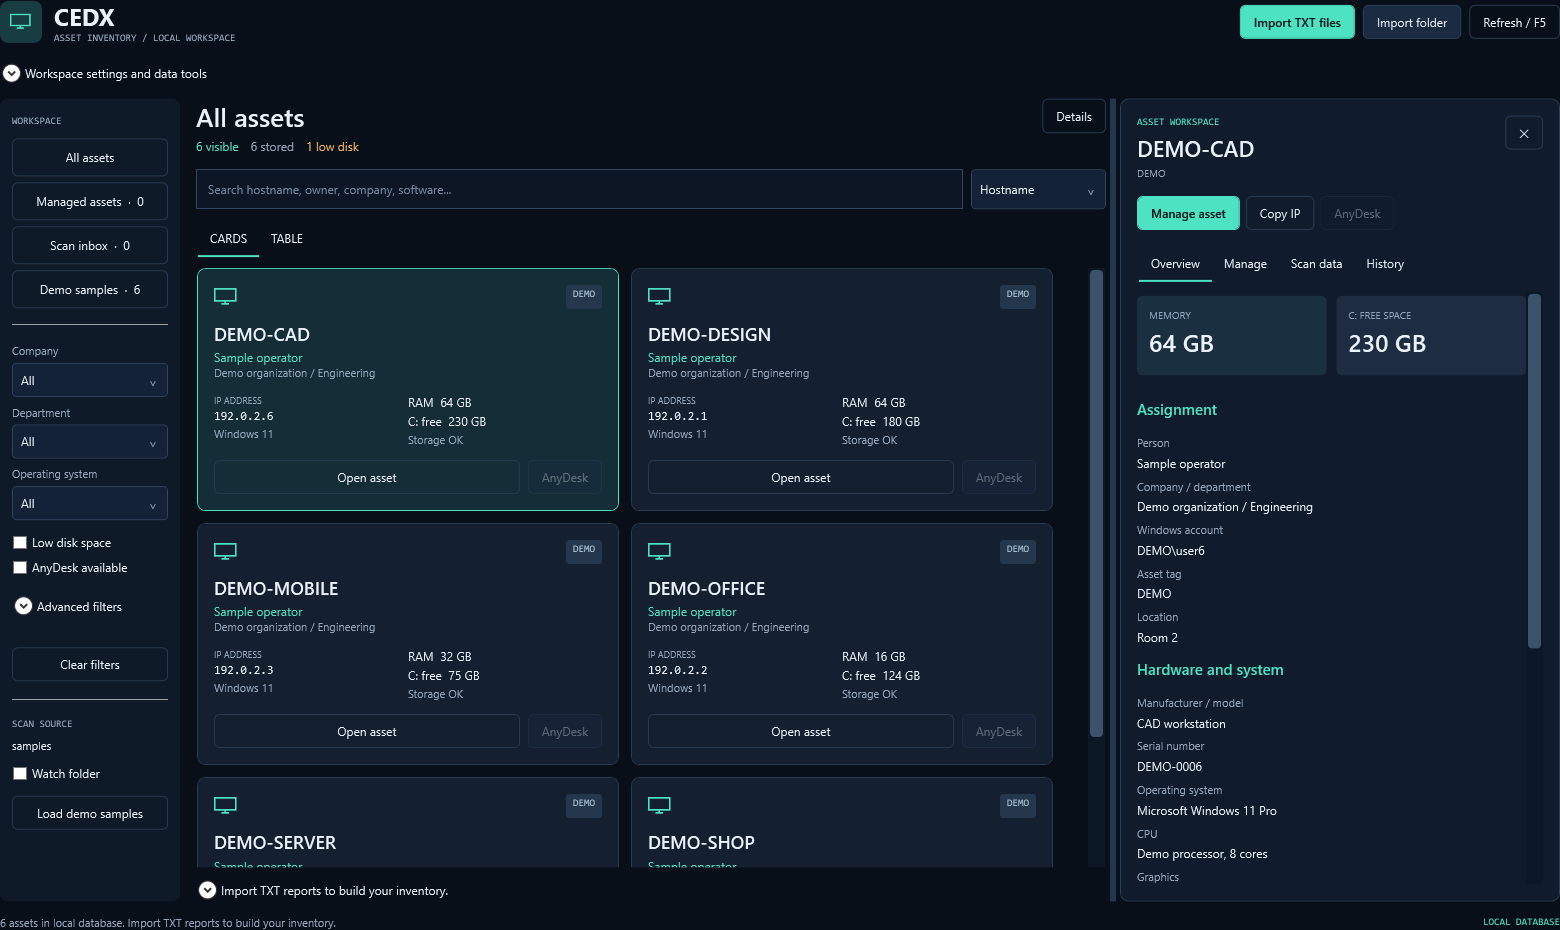
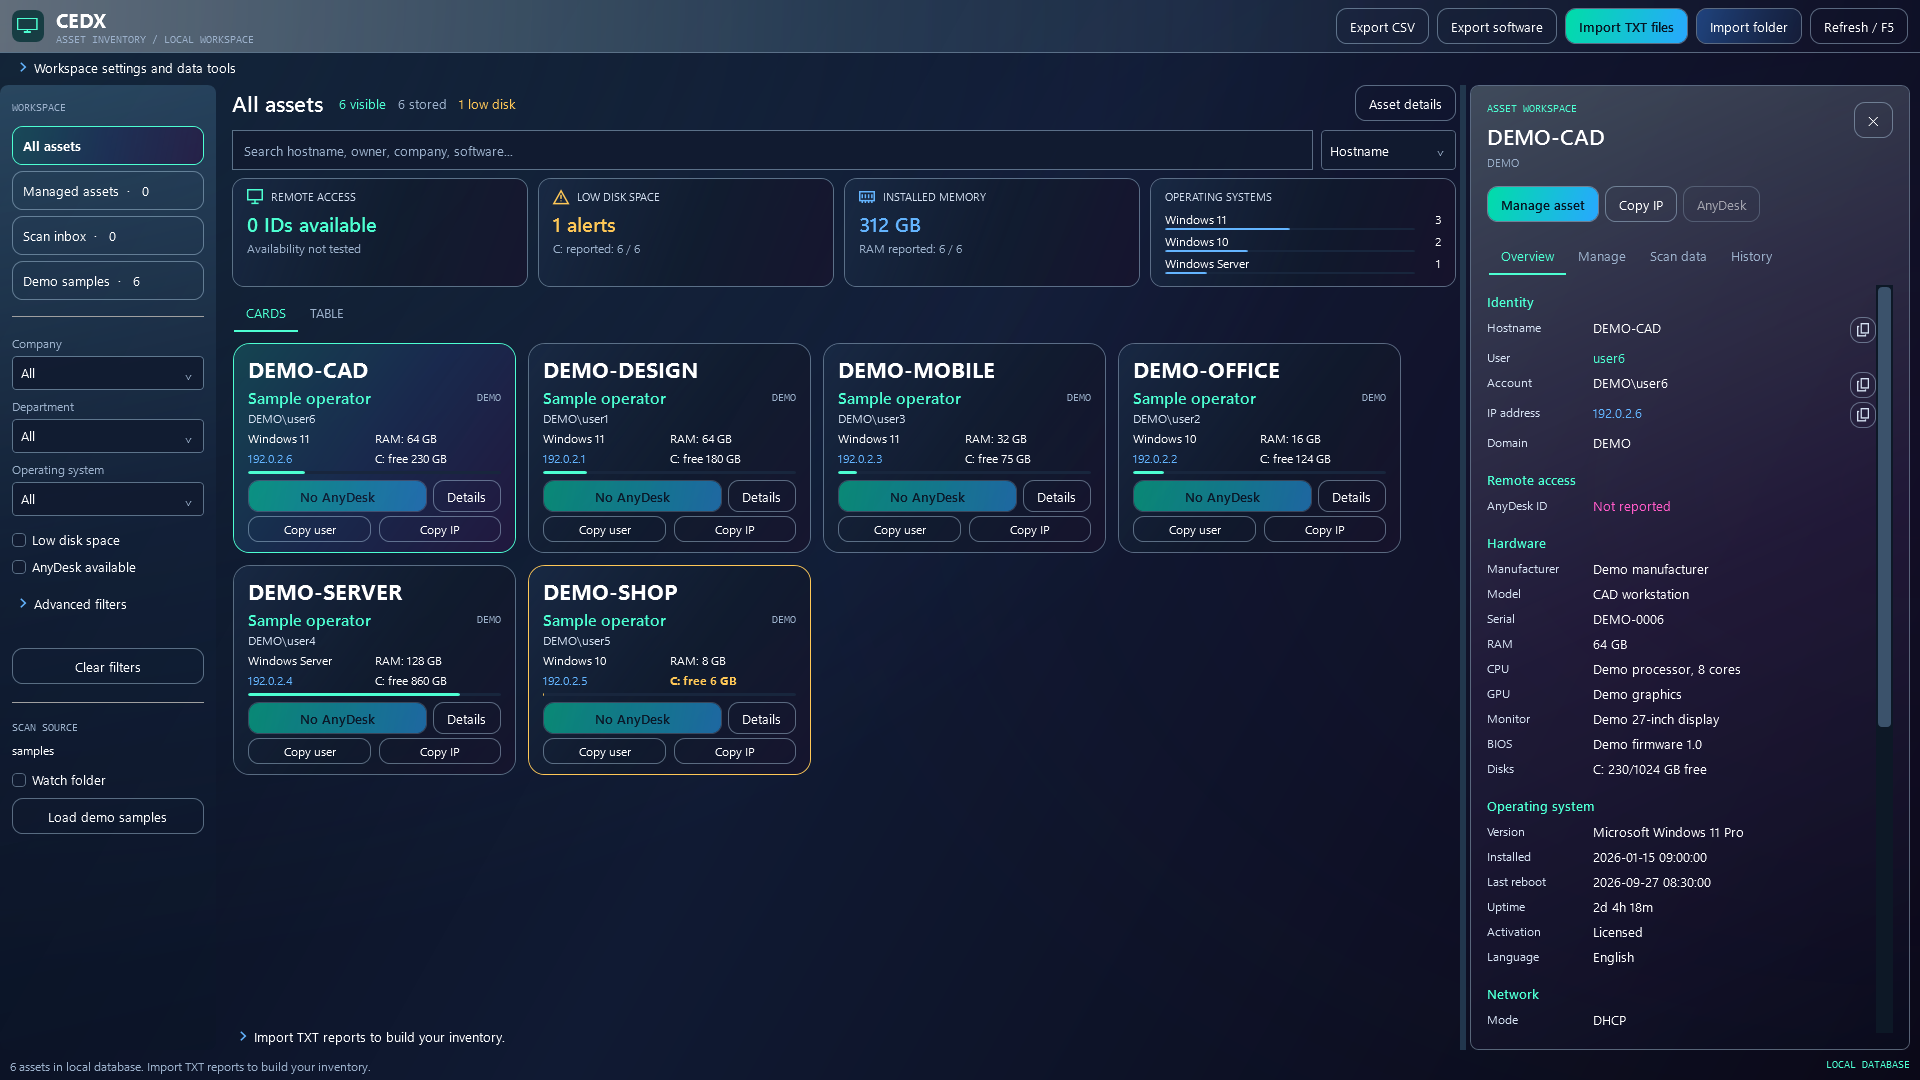
Document verified scan recovery and refreshed WPF screenshots [skip ci]

diff --git a/README.md b/README.md
@@ -1,19 +1,31 @@
 # CEDX · Windows asset workspace
 
-A native WPF inventory application for turning collector TXT reports into a maintained asset register. This branch is `cedxadnacedexe`, based on `cedxadvanced`.
+A native WPF inventory application for turning collector TXT reports into a maintained asset register. This branch is `cedexadvancesui`, based on the functional `cedxadnacedexe` workspace.
 
 ## Run in one click
 
-1. Download **this entire branch** and extract it, or clone and check out `cedxadnacedexe`.
+1. Download **this entire branch** and extract it, or clone and check out `cedexadvancesui`.
 2. Install the **.NET 8 SDK for Windows x64** if it is not already installed.
 3. Double-click **Build-and-Run-CEDX.bat**. The first build needs internet access to restore .NET and SQLite packages.
 4. Choose **Import folder** for your existing TXT directory, or **Import TXT files** for individual reports. Dragging TXT files or folders into the window also works.
 
 The BAT compiles a self-contained Windows x64 application into `artifacts\cedxadnacedexe`. Keep that entire folder together. After the first build, launch `Cedx.App.exe` directly; the destination PC does not need a separate .NET runtime. Close the application before rebuilding. Build diagnostics are saved in `artifacts\build.log`; `--build-only` skips launch.
 
+## UI improvements in this branch
+
+- No unused white client border. The Window theme is explicitly applied; content fills the client area in normal and maximized mode.
+- The original CEDX midnight-blue palette is restored: blue/violet glass panels, white hostnames, teal users, blue IPs, magenta remote IDs and amber storage warnings.
+- Hostnames are 22 DIP and owners 16 DIP. Dark inputs, checkboxes, expanders and visible keyboard focus keep controls readable.
+- The Overview inspector uses compact label/value rows for identity, hardware, OS, network and software. Blank assignment rows are omitted; populated assignments remain available and editable in Manage.
+- Cards prioritize AnyDesk and include a Details action, double-click/Enter navigation, Copy user / Copy IP, show actual disk free-space meters when capacity is known, and highlight low-space warnings using the configured threshold.
+- Summary panels and the OS bar chart follow the active filters. An AnyDesk ID means a remote-access identifier was collected; it does not imply the computer is online. Missing measurements are counted explicitly.
+- Accent, card size and inspector width remain customizable in Workspace settings and data tools. The metric strip stays in one row at Full-HD 100% and 125% scaling, and reflows to two columns in narrower panels.
+
+Progress is checkpointed in [docs/UI-PROGRESS.md](docs/UI-PROGRESS.md). Each target has its own branch commit and Windows validation.
+
 ## Actual desktop UI
 
-These are WPF renders from the Windows validation workflow, using only synthetic sample data.
+These are WPF renders from the Windows validation workflow, using only synthetic sample data. Wide renders use 1920 × 1080 with the production layout and margins. A separate render exercises the equivalent Full-HD layout at 125% scaling; actual multi-monitor DPI transitions still need testing on the target PC.
 
 ![Inventory cards and asset overview](docs/screenshots/01-inventory.png)
 
@@ -22,6 +34,8 @@ These are WPF renders from the Windows validation workflow, using only synthetic
 ![Structured collector data](docs/screenshots/03-scan-details.png)
 
 ![Compact asset workspace](docs/screenshots/04-compact.png)
+
+![Full-HD layout at 125 percent](docs/screenshots/05-scale-125.png)
 
 ## Import, manage, update
 
@@ -33,6 +47,12 @@ These are WPF renders from the Windows validation workflow, using only synthetic
 6. **Export.** Export the filtered inventory as CSV or JSON, installed software as CSV, selected technical fields as CSV, or a stored scan as TXT. Clipboard actions and Ctrl+C on grid cells are available.
 
 Draft assignment edits survive selection changes within the session. They are committed only with Save; closing with unsaved edits prompts before discarding them. Ctrl+S saves the selected assignment, Ctrl+F focuses search, F5 refreshes.
+
+## Existing scans with missing hardware or disk data
+
+Some legacy reports contain four NUL characters in the monitor's EDID name. Native text handling could stop at the first NUL during writing or reading, hiding the following manufacturer, model, disk, network and software fields. Some older database rows therefore contain only a prefix of the report.
+
+This branch stores and reads current and historical reports as explicit UTF-8 bytes. Rebuild the app, select the original TXT folder and press **F5**. Complete stored reports load immediately; truncated rows are repaired from their original TXT, even when its content hash is unchanged. Asset identity, manual assignments and revision counts are preserved. Matching history entries are repaired too. If the original TXT is unavailable, a previously truncated suffix cannot be reconstructed; import the original report or a fresh collector scan. The regression suite covers raw text, unchanged reimport repair, history, assignment preservation and backup with embedded NUL characters.
 
 ## Built-in database
 
@@ -60,8 +80,10 @@ AnyDesk requires a local AnyDesk URI handler. Nmap is optional, runs only when r
 - `src/Cedx.Core`: legacy and extended TXT parsing, import validation, SQLite persistence, revision history and filtering.
 - `src/Cedx.App`: native WPF application, attached collection view replacement, filesystem watcher, assignment editor and export commands.
 - `tests/Cedx.Tests`: parser, query, key masking, encoding, transactional imports, deduplication, older-scan handling, assignment persistence and backup checks.
-- `tests/Cedx.WpfSmoke`: opens the real WPF window, loads every repository example through Refresh, adds a nested report while watching, saves an assignment, imports an update, reopens storage and checks empty/filtered selections. It renders wide and compact layouts using synthetic data only.
+- `tests/Cedx.WpfSmoke`: opens the real WPF window, loads every repository example through Refresh, adds a nested report while watching, saves an assignment, imports an update, reopens storage and checks empty/filtered selections. It also checks NUL-padded reports through the real file watcher, complete selected-asset fields, overview license masking, and compact card height. It renders wide, compact and 125% layouts using synthetic data only.
 
 Run `dotnet run --project tests/Cedx.Tests -c Release` and, on Windows, `dotnet run --project tests/Cedx.WpfSmoke -c Release` from the repository root. GitHub Actions also runs the user's BAT in build-only mode. Rendered screenshots and build logs are retained as workflow artifacts.
 
-The original `cedxadvanced` branch is unchanged. To roll back the application, use that branch in a separate checkout. Keep a database backup before replacing newer builds. Legacy Python/Streamlit sources remain in the repository for reference.
+Latest verified code: [`a68c6f7`](https://github.com/amilapcsgit/cedx/commit/a68c6f7349b4ca1a1a41bd2e8b9372437a19305a). [Windows validation and screenshots](https://github.com/amilapcsgit/cedx/actions/runs/36637198833): 37 Core checks, successful BAT build and all WPF integration/layout checks passed. The five images above come from this run; synthetic cards measure 210 DIP in the Full-HD render.
+
+The `cedxadnacedexe` and `cedxadvanced` branches are unchanged by this UI work. To roll back just the UI, run `cedxadnacedexe` in a separate checkout. Keep a database backup before replacing newer builds. Legacy Python/Streamlit sources remain in the repository for reference.

diff --git a/docs/UI-PROGRESS.md b/docs/UI-PROGRESS.md
@@ -8,7 +8,7 @@ The approved reference is the older CEDX screenshot: midnight blue surfaces, blu
 
 1. **Complete, Windows validation passed (`cbeb1e3`, run `36573115411`):** remove unused white client border. Apply the Window style explicitly and remove the 20-DIP root margin. Screenshots must no longer override production margins. Test the shown maximized window and render at 1920 x 1080.
 2. **Complete, Windows validation passed (`7c484d1`, run `36573607274`):** restore the reference palette through reusable resources, readable text sizes, visible keyboard focus and consistent dark controls.
-3. **Complete, Windows validation passed (`c1e1a57`, run `36574605778`):** compact useful tiles, recognizable icons, real filtered inventory indicators, wide and compact layout checks, refreshed screenshots and README.
+3. **Complete, Windows validation passed (`c1e1a57`, run `36574605778`):** compact useful tiles, recognizable icons, real filtered inventory indicators, wide and compact layout checks. Screenshot and README publication is recorded in checkpoint 7.
 
 Each target is a separate commit on this branch. Database, import and assignment behavior remain covered by the existing regression suite. No uploaded screenshots or real inventory details are committed.
 
@@ -22,4 +22,4 @@ Filter-aware metrics and OS bar chart use actual visible scans. Unknown disk cap
 5. **Complete, Windows validation passed (`57040c4`, run `36636854399`):** compact label/value inspector, omit empty assignment rows, restore manufacturer, monitor, OS activation/dates, network mode/MAC and software summaries, reduce tile/chrome height.
 
 6. **Complete, Windows validation passed (`57040c4`, run `36636854399`):** end-to-end WPF reproduction showed truncation also occurred during native TEXT writes. Store UTF-8 BLOB parameters and compare stored bytes when a scan hash is unchanged. Reimport repairs truncated current/history rows while preserving identity, assignment and revision count. Recovery of an already truncated row needs its original TXT. The earlier read-only fix was insufficient; 37 Core checks and the real WPF workflow now pass.
-7. **Implemented, Windows validation pending:** keep summary metrics in a single row at Full-HD 125% scaling, fit three OS chart entries without a needless scrollbar, label C: values as free space, and keep license masking consistent in the compact overview. Documentation screenshots follow after validation.
+7. **Complete, Windows validation passed (`a68c6f7`, run `36637198833`):** keep summary metrics in a single row at Full-HD 125% scaling, fit three OS chart entries without a needless scrollbar, label C: values as free space, and keep license masking consistent in the compact overview. Five fresh screenshots and the README now document this verified build. Cards measure 210 DIP in the synthetic Full-HD render.
